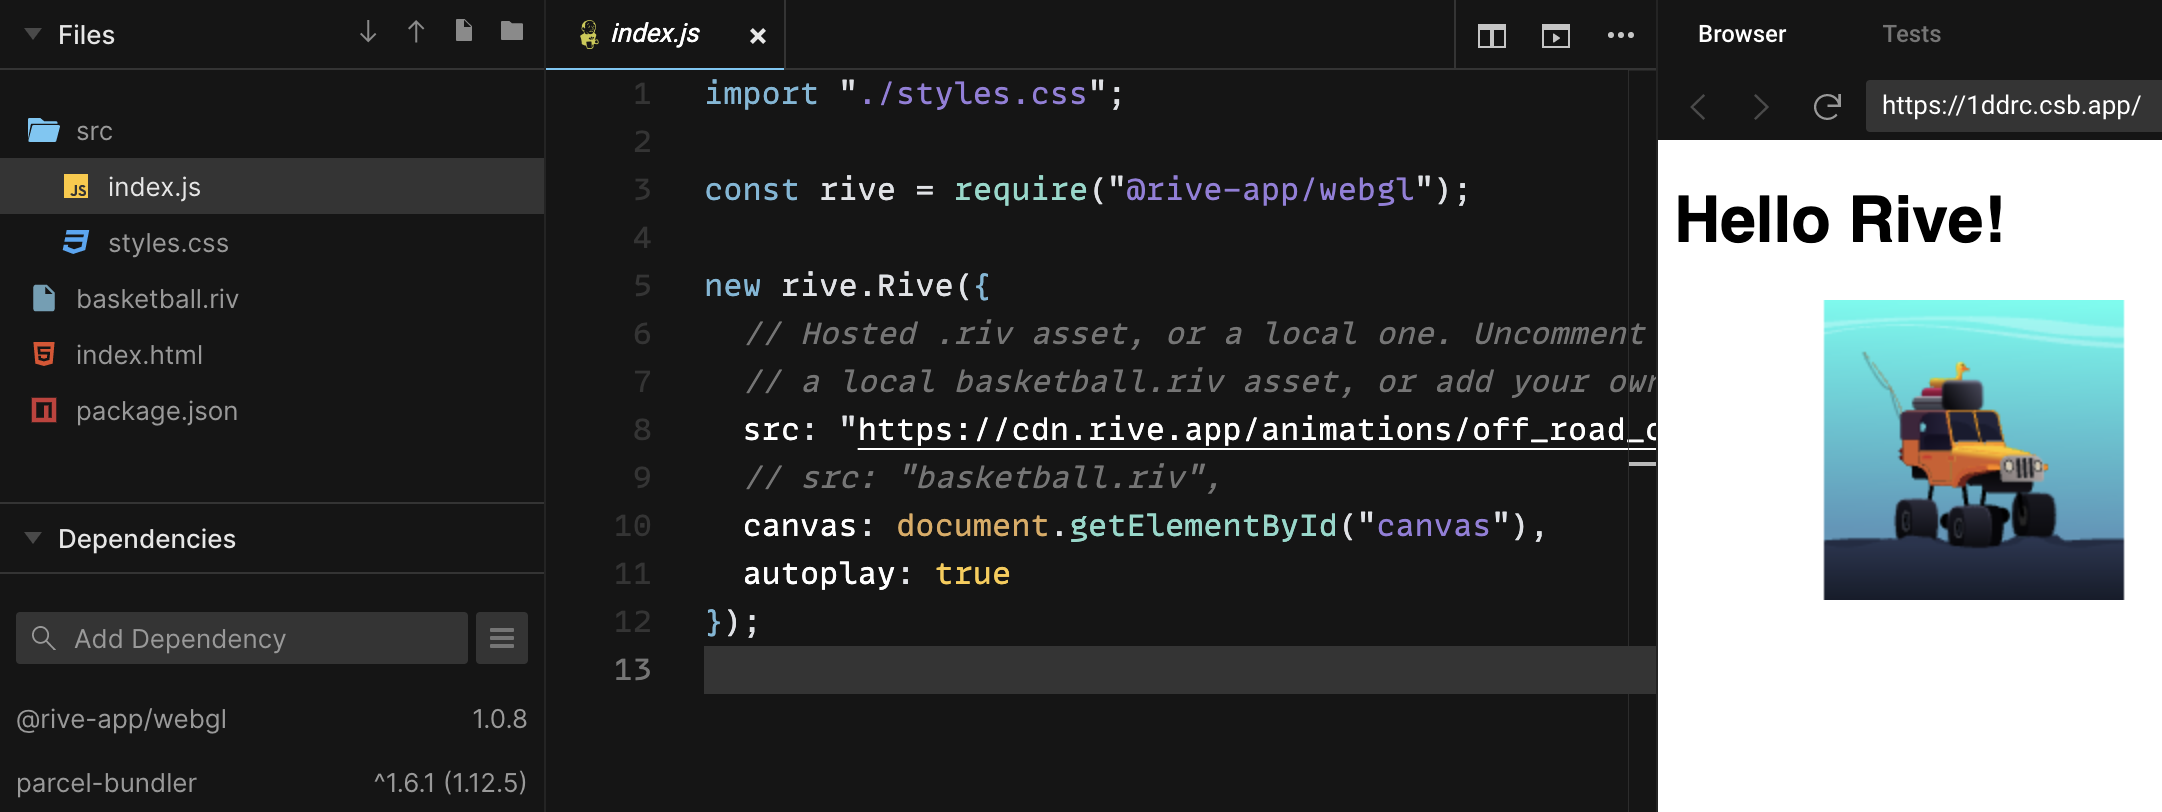
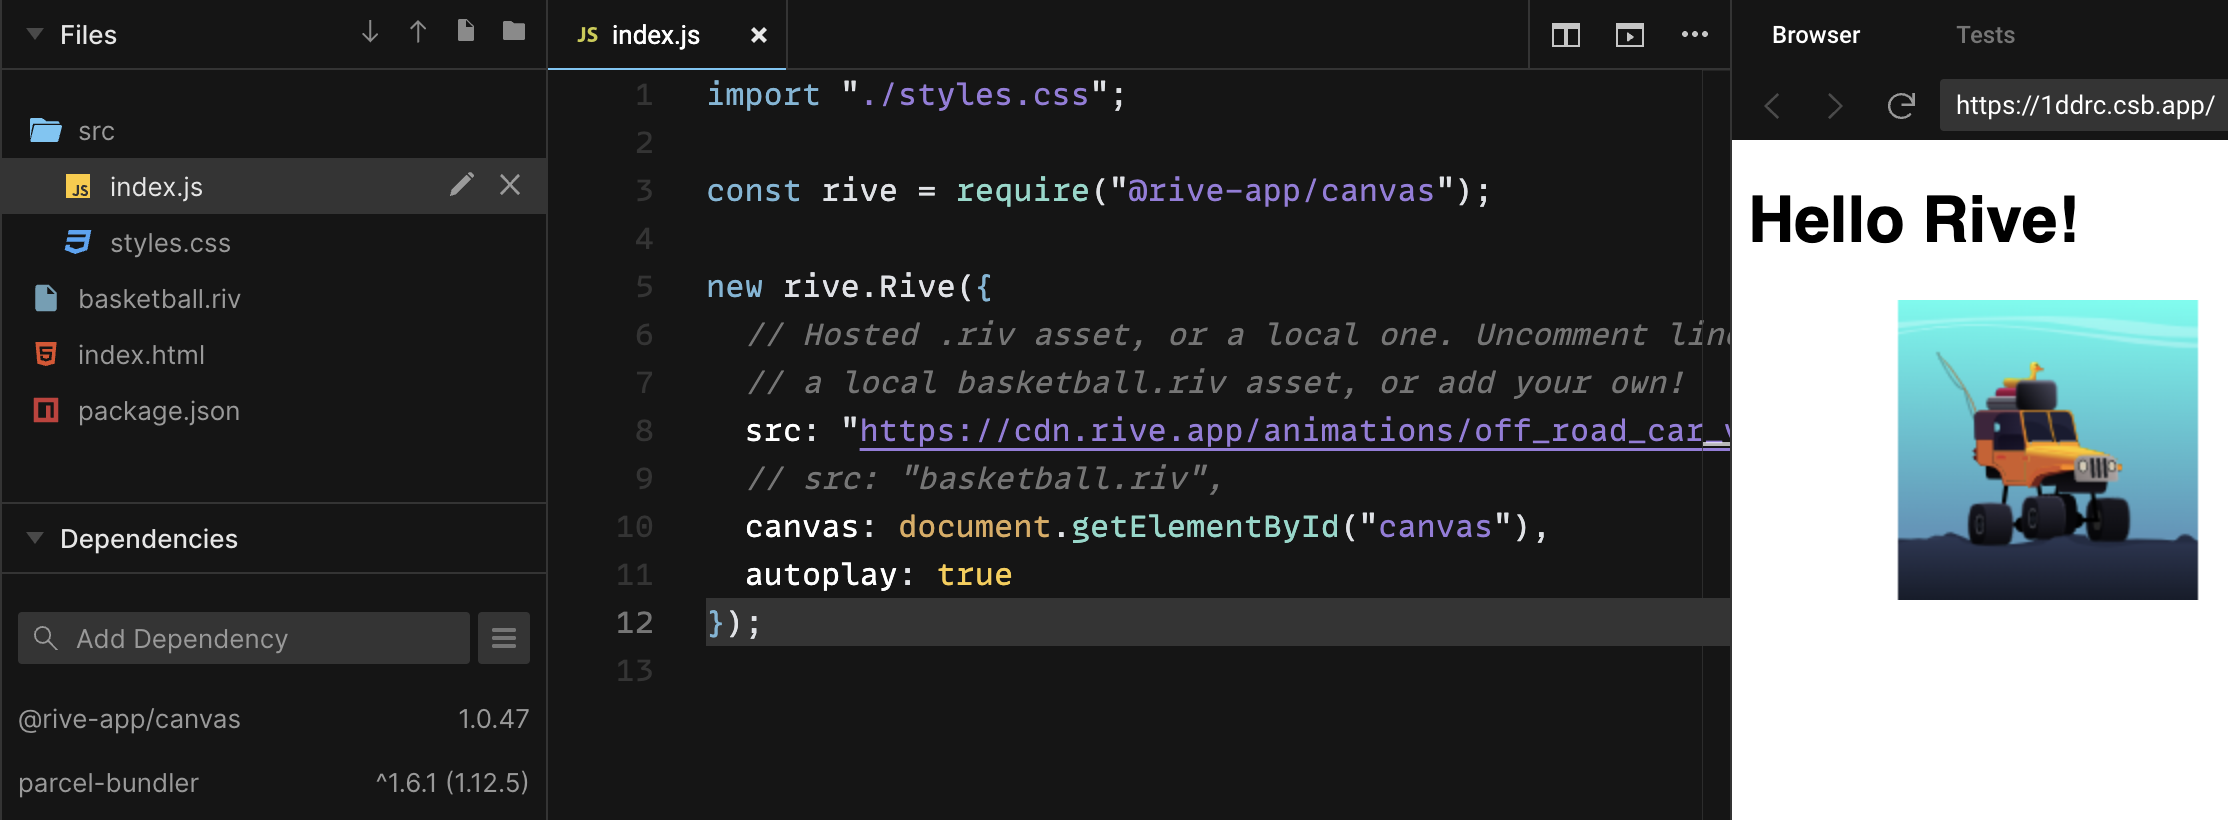
Docs: Update docs to suggest the canvas runtime as a default for now

diff --git a/WEB_RUNTIMES.md b/WEB_RUNTIMES.md
@@ -4,48 +4,38 @@ See more context below on which package you may want to install in your web appl
 
 # Installing
 
-This repository provides various packages which are published to npm. For simple usage, we recommend starting with `@rive-app/webgl` (more on that below).
+This repository provides various packages which are published to npm. For simple usage, we recommend starting with `@rive-app/canvas` (more on that below).
 
-**Note:** The high-level API and the logic for creating a Rive instance in your script remains the same for all of these packages. That means if you decide later on that you need more control over your assets render in your app, you can switch from for instance, `@rive-app/webgl` to `@rive-app/webgl-advanced` without any changes needed to your existing code.
+**Note:** The high-level API and the logic for creating a Rive instance in your script remains the same for all of the non-advanced packages. That means if you decide later on you want to switch from a backing `CanvasRenderingContext2D` context to `WebGL`, you can switch from for instance, `@rive-app/canvas` to `@rive-app/webgl` without any breaking changes needed to your existing code.
 
-### **(Recommended)** @rive-app/webgl ![npm](https://img.shields.io/npm/v/@rive-app/webgl)
-
-```
-npm install @rive-app/webgl
-```
-
-An easy to use high-level Rive API using the [WebGL](https://developer.mozilla.org/en-US/docs/Web/API/WebGL_API) renderer. This lets Rive squeeze every last ounce of performance from the hardware and provide some newer advanced rendering features which will not be available to the Canvas renderers.
-
-- Highest fidelity with edit-time experience.
-- Best performance across all devices.
-- Support for upcoming features like mesh deformations.
-
-**A note about WebGL**
-Most browsers limit the number of concurrent WebGL contexts. If you're planning on displaying Rive content in a list item or many times on the same page, it's up to you to manage the lifecycle of the provided Canvas object or consider using the `@rive-app/canvas` packages which use the CanvasRenderingContext2D renderer and do not have a context limitation.
-
-### @rive-app/webgl-advanced ![npm](https://img.shields.io/npm/v/@rive-app/webgl-advanced)
-
-```
-npm install @rive-app/webgl-advanced
-```
-
-A low-level Rive API using the [WebGL](https://developer.mozilla.org/en-US/docs/Web/API/WebGL_API) renderer. It has the same benefits as the regular `@rive-app/webgl` package plus:
-
-- Full control over the update and render loop.
-- Allows for rendering multiple Rive artboards to a single canvas.
-- Allows deeper control and manipulation of the components in a Rive hierarchy.
-
-### @rive-app/canvas ![npm](https://img.shields.io/npm/v/@rive-app/canvas)
+### **(Recommended)** @rive-app/canvas ![npm](https://img.shields.io/npm/v/@rive-app/canvas)
 
 ```
 npm install @rive-app/canvas
 ```
 
-An easy to use high-level Rive API using the [CanvasRenderingContext2D](https://developer.mozilla.org/en-US/docs/Web/API/Canvas_API) renderer. This lets Rive use the browser's native high level vector graphics renderer. Best for:
+An easy to use high-level Rive API using the [CanvasRenderingContext2D](https://developer.mozilla.org/en-US/docs/Web/API/Canvas_API) renderer. This lets Rive use the browser's native high-level vector graphics renderer. Some benefits of this package:
 
 - Extremely small download size
-- Displaying many animated canvases concurrently on the screen.
-- Simple vector graphics animations without mesh deformations and other upcoming advanced rendering features.
+- Great for displaying many animated canvases concurrently on the screen. This is ideal for when you want to render lists or grids of Rive animations on the screen, as there is no context limit by the browser (as opposed to WebGL)
+- Support for simple vector graphics animations, raster, and mesh deformations
+- Requests the backing web assembly code for you as a network request
+
+### @rive-app/webgl ![npm](https://img.shields.io/npm/v/@rive-app/webgl)
+
+```
+npm install @rive-app/webgl
+```
+
+An easy-to-use high-level Rive API using the WebGL renderer. This runtime will eventually support some newer advanced rendering features which may not be available to the Canvas renderers. Some benefits of this package:
+
+- Highest fidelity with edit-time experience.
+- Support for upcoming features like mesh deformations in Rive animations
+- Requests the backing web assembly code for you as a network request
+
+**A note about WebGL**: Most browsers limit the number of concurrent WebGL contexts. If you're planning on displaying Rive content in a list/grid or many times on the same page, it's up to you to manage the lifecycle of the provided context and `<canvas>` element. If you need to display many animations (i.e grids/lists), consider using the `@rive-app/canvas` package which uses the `CanvasRenderingContext2D` renderer and does not have a context limitation.
+
+We are actively working on a better solution to working around the browser context limit, while still being performant in various browsers. To try it out, set `useOffscreenRenderer` to `true` when instantiating the rive object.
 
 ### @rive-app/canvas-advanced ![npm](https://img.shields.io/npm/v/@rive-app/canvas-advanced)
 
@@ -58,15 +48,32 @@ A low-level Rive API using the [CanvasRenderingContext2D](https://developer.mozi
 - Full control over the update and render loop.
 - Allows for rendering multiple Rive artboards to a single canvas.
 - Allows deeper control and manipulation of the components in a Rive hierarchy.
+- WASM is part of the NPM bundle, but you can load in the WASM manually
+
+Want to see an example? Check out this [CodeSandbox](https://codesandbox.io/s/rive-canvas-advanced-api-centaur-example-exh2os) for some inspiration!
+
+### @rive-app/webgl-advanced ![npm](https://img.shields.io/npm/v/@rive-app/webgl-advanced)
+
+```
+npm install @rive-app/webgl-advanced
+```
+
+A low-level Rive API using the [WebGL](https://developer.mozilla.org/en-US/docs/Web/API/WebGL_API) renderer. It has the same benefits as the regular `@rive-app/webgl` package plus:
+
+- Full control over the update and render loop.
+- Allows for rendering multiple Rive artboards to a single canvas.
+- Allows deeper control and manipulation of the components in a Rive hierarchy.
+- WASM is part of the NPM bundle, but you can load in the WASM manually
 
 ## Single Versions
 
-Every packaged outlined above also provides a `*-single` version. For example: `@rive-app/canvas` has a matching `@rive-app/canvas-single` package published to npm.
+Each of the above NPM packages includes the `rive.wasm` file in the bundle that powers the Rive render loop. In the high-level APIs (`@rive-app/canvas` and `@rive-app/webgl`), the runtime requests this for you so you don't have to, as opposed to their `-advanced` counterpart packages.
 
-The **single** version provides an all-in-one package with the [WASM](https://developer.mozilla.org/en-US/docs/WebAssembly) encoded into the JS. This avoids needing to manage resolving the matching .wasm file. All of the other packges will attempt to download the .wasm file from unpkg. We recommend using these to get the best cache friendliness and fastest download times across all sites using Rive. You can also choose to host the .wasm yourself and provide the API the location of the .wasm to fetch during initialization.
+We also have alternative versions of each of the above packages on NPM that have the WASM encoded in the JS bundle. This means you won't have to make a network request for the WASM that powers the Rive animations, as it's all in one main JS file.
 
-For example, with the high level APIs (non-advanced) you can use:
+- [@rive-app/canvas-single](https://www.npmjs.com/package/@rive-app/canvas-single)
+- [@rive-app/canvas-advanced-single](https://www.npmjs.com/package/@rive-app/canvas-advanced-single)
+- [@rive-app/webgl-single](https://www.npmjs.com/package/@rive-app/webgl-single)
+- [@rive-app/webgl-advanced-single](https://www.npmjs.com/package/@rive-app/webgl-advanced-single)
 
-```
-RuntimeLoader.setWasmUrl('https://my.site.come/rive_canvas.wasm');
-```
+While there is no request for WASM file here, the JS bundle will be larger. The non-single versions may cache better on your web applications, as the WASM gets loaded from the same CDN source if loaded from multiple pages.

diff --git a/js/README.md b/js/README.md
@@ -16,13 +16,13 @@ Rive is a real-time interactive design and animation tool. Use our collaborative
 
 This project deploys various packages which are published to npm.
 
-For most cases when integrating Rive assets (`.riv` files) into your application, we recommend installing the `@rive-app/webgl` package, which uses the [WebGL](https://developer.mozilla.org/en-US/docs/Web/API/WebGL_API) renderer to display your animations. You can install this in your web application via:
+For most cases when integrating Rive assets (`.riv` files) into your application, we recommend installing the `@rive-app/canvas` package, which uses the [CanvasRenderingContext2D](https://developer.mozilla.org/en-US/docs/Web/API/CanvasRenderingContext2D) rendering context to display your animations. You can install this in your web application via:
 
 ```
-npm install @rive-app/webgl
+npm install @rive-app/canvas
 ```
 
-For more advanced usage in controlling the render of your assets, or if you would rather use the [Canvas](https://developer.mozilla.org/en-US/docs/Web/API/Canvas_API) renderer to display your animations, check out the other web runtime packages to understand which one may fit your needs better in our [web runtimes](WEB_RUNTIMES.md) docs. The high-level API described in the docs below remains the same among all of these packages.
+For more advanced usage in controlling the render of your assets, or if you would rather use the [WebGL](https://developer.mozilla.org/en-US/docs/Web/API/WebGL_API) rendering context to display your animations, check out the other web runtime packages to understand which one may fit your needs better in our [web runtimes](WEB_RUNTIMES.md) docs. The high-level API described in the docs below remains the same among all of these packages.
 
 **Note:** If you previously used the `rive-js` package in your application, we recommend updating to using the package above to ensure you have support for the latest features (i.e raster assets).
 
@@ -49,10 +49,10 @@ HTML file:
 JS file
 
 ```js
-import rive from "@rive-app/webgl";
+import rive from "@rive-app/canvas";
 
 new rive.Rive({
-  // Hosted .riv asset, or a local one
+  // Hosted .riv asset, or a local static asset
   src: "https://cdn.rive.app/animations/off_road_car_v7.riv",
   canvas: document.getElementById("canvas"),
   autoplay: true,
